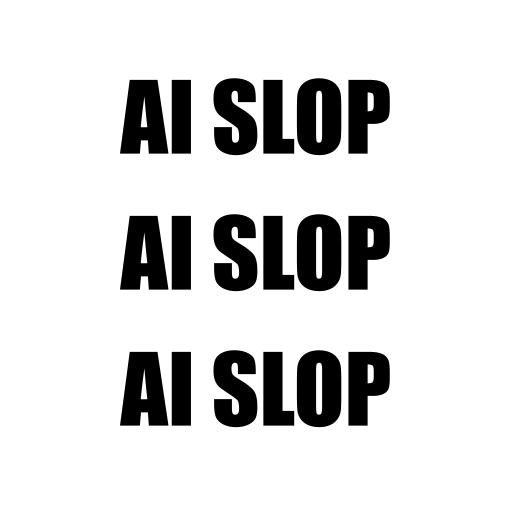
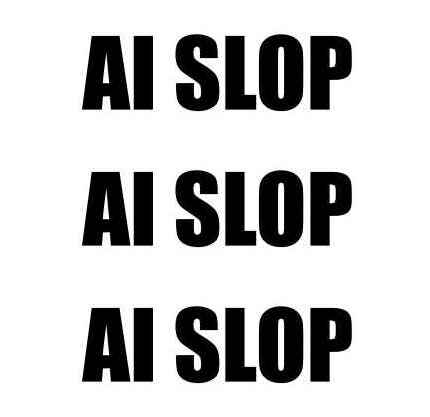
better ai-slop overlay

Changed region(s): [[0.1814, 0.6859, 0.8163, 0.9353], [0.1814, 0.0624, 0.8163, 0.3118], [0.1814, 0.4053, 0.8163, 0.5923]]

diff --git a/content.js b/content.js
@@ -365,29 +365,55 @@ function createCoverSpan(text) {
     cover.className = 'slop-cover'
     cover.textContent = text
 
-    cover.style.cursor = 'pointer'
-    cover.style.position = 'relative'
-
-    // const originalStyle = cover.style.cssText
-    // cover.style.cssText = coveredCSS
     cover.style.setProperty('--slop-image-url', `url("${SLOP_URL}")`)
-    cover.classList.add('hts-uncovered')
 
-    cover.addEventListener('click', () => {
-        // if (!cover.classList.contains('hts-uncovered')) {
-        //     cover.style.cssText = originalStyle
-        // } else {
-        //     cover.style.cssText = coveredCSS
-        //     cover.classList.remove('hts-uncovered')
-        // }
-    })
+    // Paint the textured overlays once the span has been laid out so we can
+    // read its per-line geometry.
+    requestAnimationFrame(() => paintCover(cover))
 
-    const originalOutline = cover.style.outline
-    cover.addEventListener('mouseover', () => { cover.style.outline = '1px solid black' })
-    cover.addEventListener('mouseout', () => { cover.style.outline = originalOutline })
+    cover.addEventListener('mouseover', () => { cover.querySelectorAll('.slop-overlay').forEach(i => i.style.opacity = 0.1) })
+    cover.addEventListener('mouseout', () => { cover.querySelectorAll('.slop-overlay').forEach(i => i.style.opacity = 0.8) })
 
     return cover
 }
+
+// Build one overlay per line box so the texture follows the exact shape of the
+// covered text (the union of every line, including indented wrapped lines)
+// rather than a single bounding rectangle.
+function paintCover(cover) {
+    if (!cover.isConnected) return
+
+    cover.querySelectorAll('.slop-overlay').forEach(o => o.remove())
+
+    // The containing block origin for an absolutely-positioned child of a
+    // multi-line inline element isn't its bounding-box corner, so measure the
+    // real origin with a zero-size probe instead of assuming it.
+    const probe = document.createElement('span')
+    probe.style.cssText = 'position:absolute;left:0;top:0;width:0;height:0'
+    cover.appendChild(probe)
+    const origin = probe.getBoundingClientRect()
+    probe.remove()
+
+    for (const rect of cover.getClientRects()) {
+        if (rect.width === 0 || rect.height === 0) continue
+        const overlay = document.createElement('span')
+        overlay.className = 'slop-overlay'
+        overlay.style.left = `${rect.left - origin.left}px`
+        overlay.style.top = `${rect.top - origin.top}px`
+        overlay.style.width = `${rect.width}px`
+        overlay.style.height = `${rect.height}px`
+        cover.appendChild(overlay)
+    }
+}
+
+let repaintTimer = null
+function repaintAllCovers() {
+    clearTimeout(repaintTimer)
+    repaintTimer = setTimeout(() => {
+        document.querySelectorAll('.slop-cover').forEach(paintCover)
+    }, 150)
+}
+window.addEventListener('resize', repaintAllCovers)
 
 function processElement(element, sentences) {
     // Collect all leaf text nodes with their cumulative offsets in the concatenated textContent

diff --git a/content.css b/content.css
@@ -1,18 +1,25 @@
-.hts-uncovered {
-    isolation: isolate;
-    background-color: rgba(0,0,0,0.05);
+.slop-cover {
+    position: relative;
+    cursor: pointer;
 }
 
-.hts-uncovered::before {
-    content: "";
+/* One overlay is created per line box of the covered text, so the texture
+   traces the exact shape of the (possibly indented, multi-line) sentence
+   instead of a single bounding rectangle. */
+.slop-overlay {
     position: absolute;
-    inset: 0;
+    pointer-events: none;
+    z-index: -1;
     background-image: var(--slop-image-url);
-    filter: contrast(0.4) brightness(1.6);
-    background-size: 100px 100px;
+    background-size: 80px 60px;
     background-repeat: repeat;
     background-position: center;
-    opacity: 0.2;
-    z-index: -1;
-    pointer-events: none;
+    /* difference keeps the tiled image visible against any background colour
+       (light or dark) without touching the legibility of the text above it. */
+    background-color: rgba(0, 0, 0, 0.03);
+    background-blend-mode: darken;
+    mix-blend-mode: difference;
+    opacity: 0.8;
+    scale: 1 1.3;
+    transition: opacity 0.2s;
 }